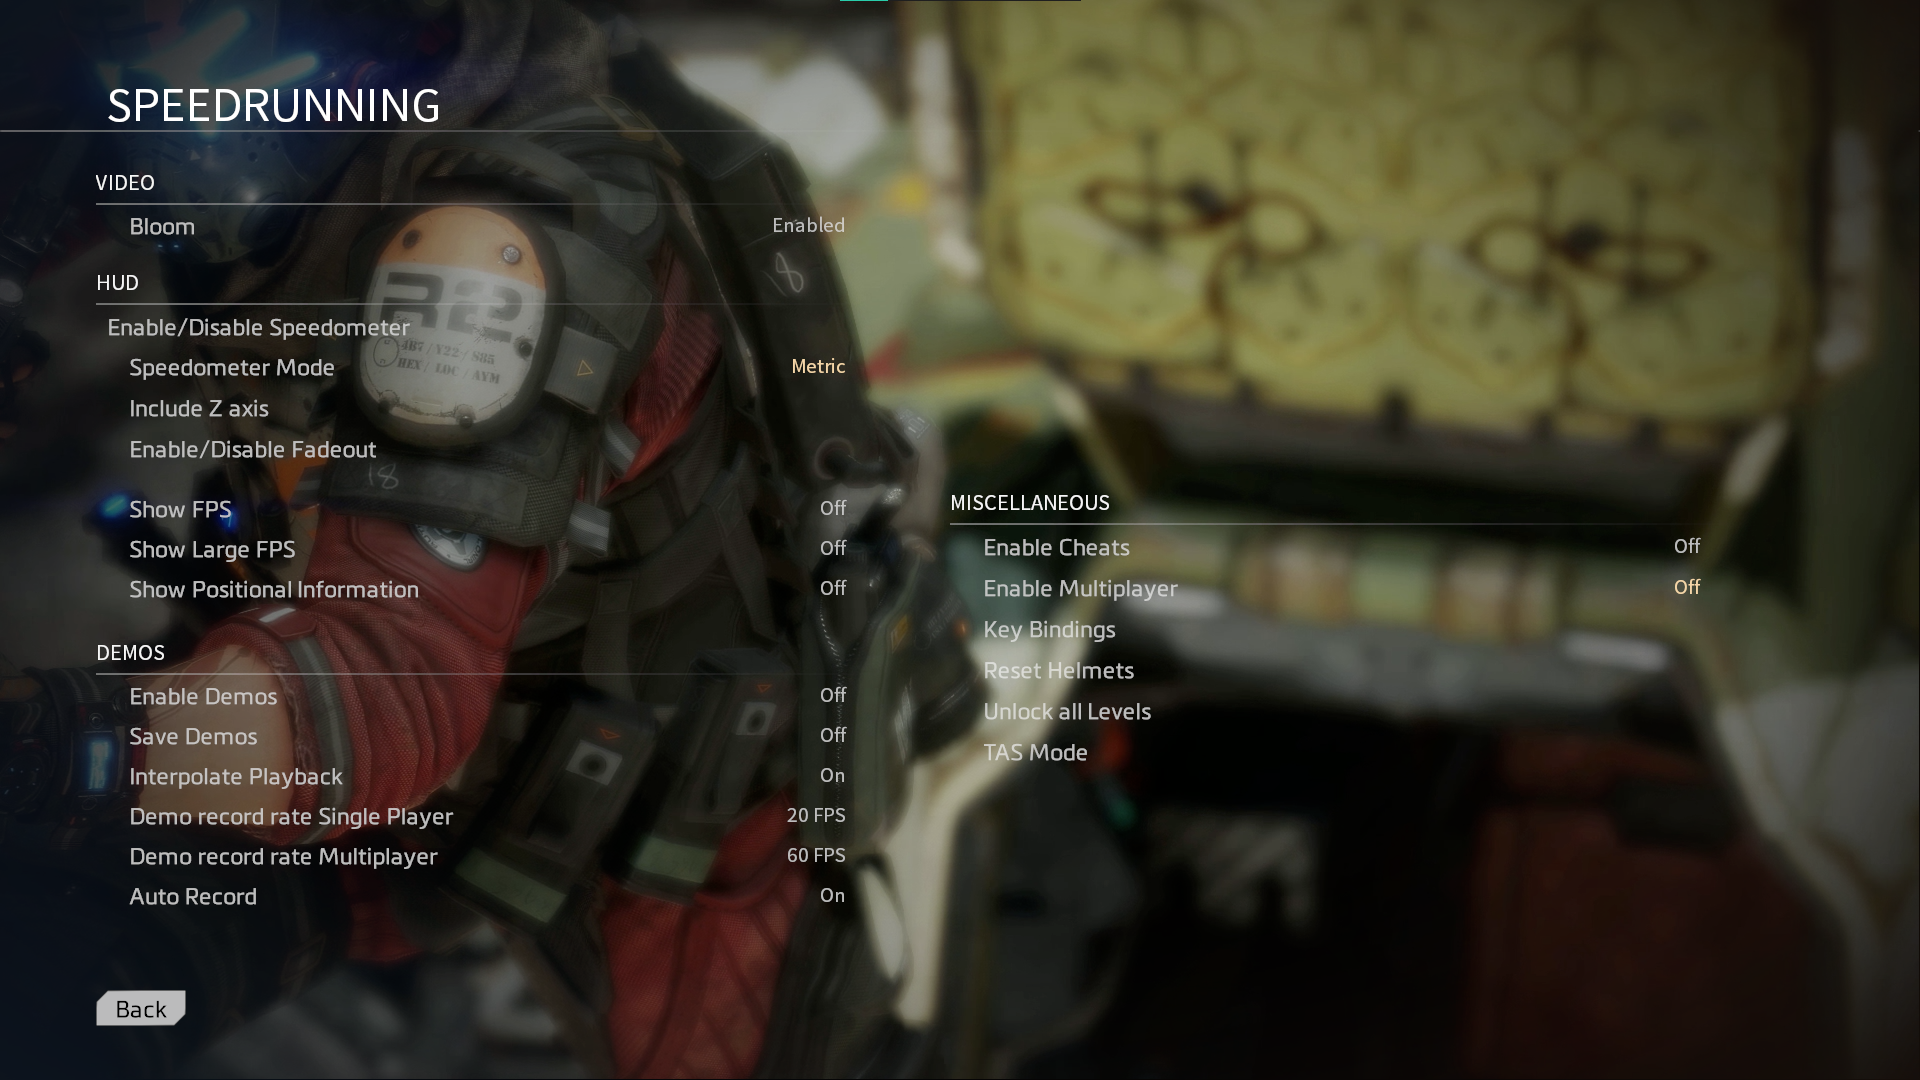
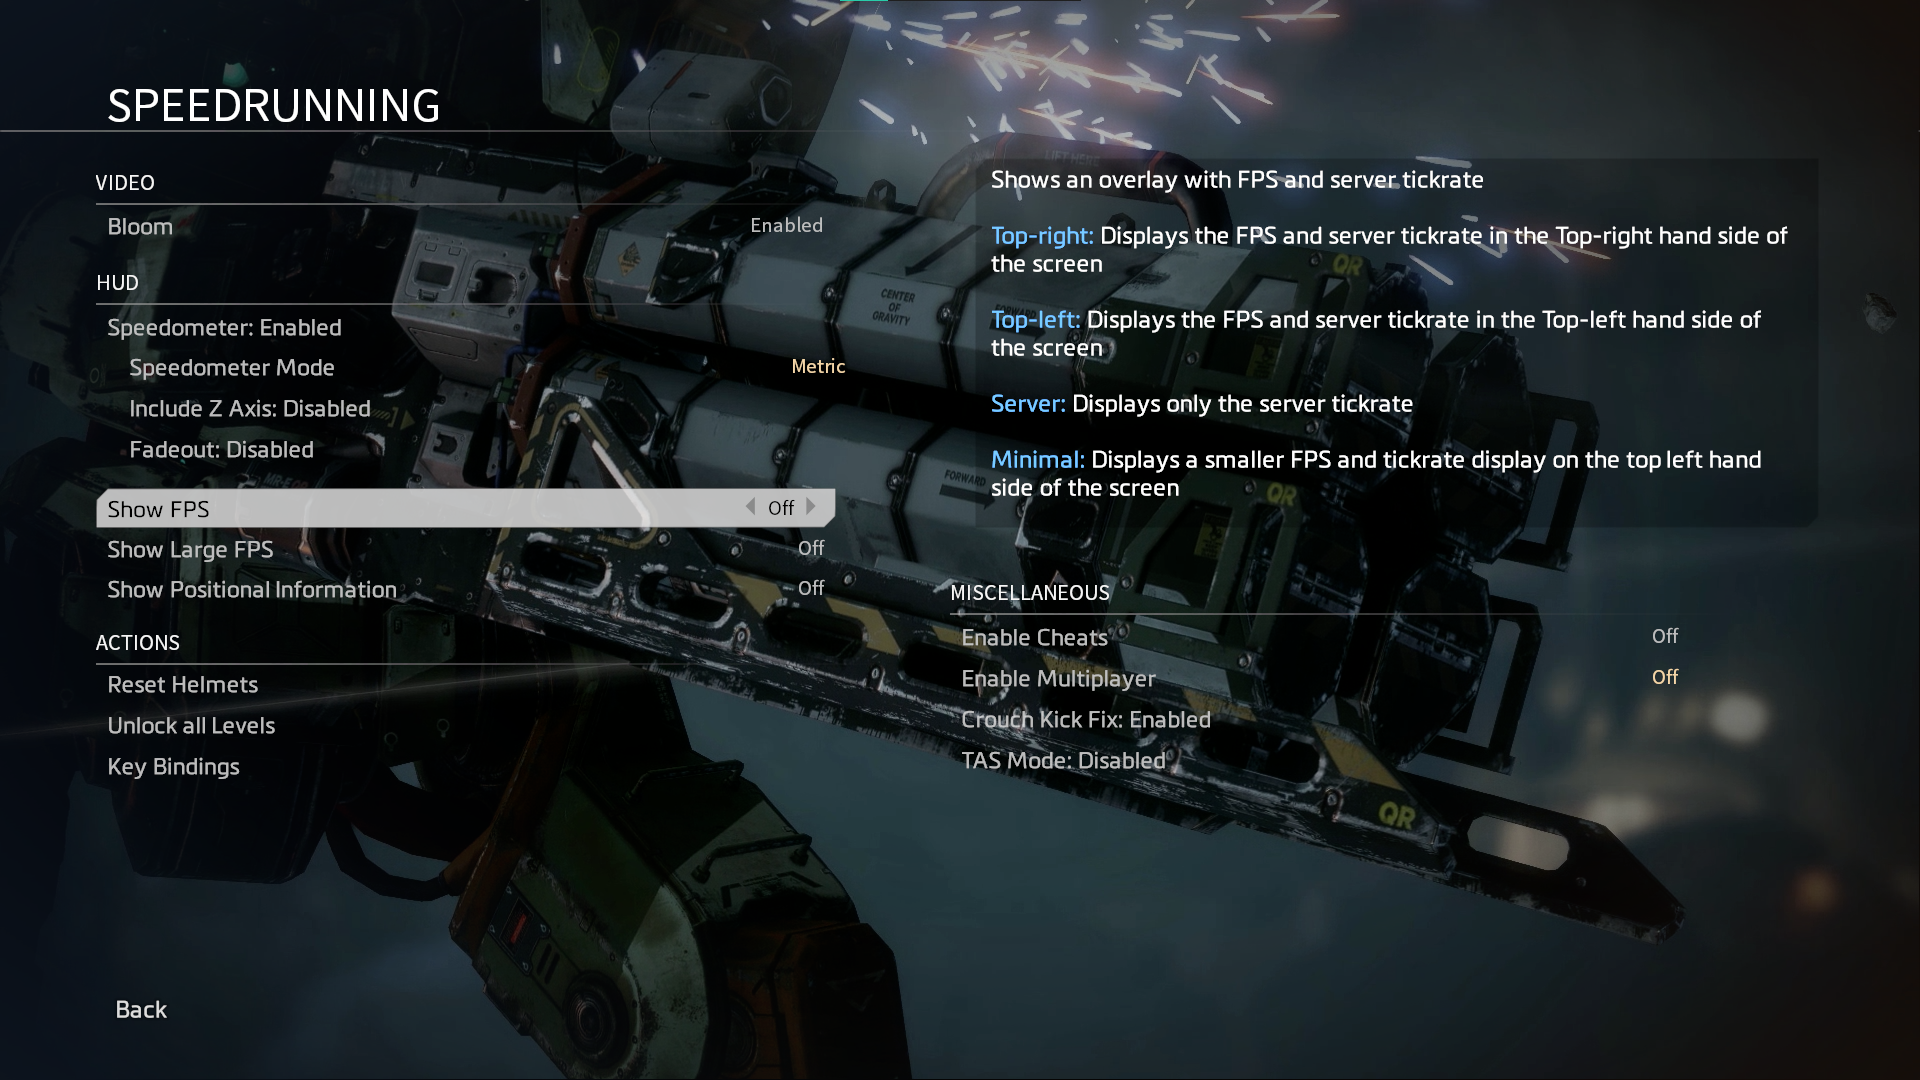
update readme

diff --git a/README.md b/README.md
@@ -6,7 +6,7 @@
 
 This is a forked version of taskinoz's Enhanced Menu Mod geared specifically toward speedrunners and TASers. I cut a few features that were not relevant for runners, and added a bunch more specifically for speedrunning to make runner's lives a bit easier.
 
-[contribute? :\]](https://github.com/zweek/TF2SR-Menu-Mod/blob/main/contribute.md)
+[contribute?](https://github.com/zweek/TF2SR-Menu-Mod/blob/main/contribute.md) :]
 
 # Features
 **Settings**
@@ -19,22 +19,25 @@ This is a forked version of taskinoz's Enhanced Menu Mod geared specifically tow
 * Show Player Position - `cl_showpos`
 * Cheats toggle - `sv_cheats`
 * Toggle to enable/disable multiplayer
+* Crouch Kick Fix <a title="Adds an 8 millisecond buffer to your crouch and jump inputs. If the second input occurs within 8 milliseconds after the first input, then both inputs are sent at the same time. Otherwise the first input is sent as normal after the 8 millisecond buffer.">(?)</a>
 * Button to Reset Helmets
 * Button to unlock all levels
-* Dedicated TAS mode
-* Demos
+* Dedicated TAS mode <a title="Changes console variables like cheats, input debounce and saveload audio fade to allow for easier TASing">(?)</a>
 
 **Bindings**
-* Binds for Individual Level & Full Game Resets
+* Reset binds
+  * Reset Helmets
+  * Reset for Any%
+  * Reset for All Helmets
+  * Reset for Individual Levels
 * Save/Load 3 Quicksaves
 * NCS Saves 1-9
 * NCS Helmet Saves 2 & 5
-* Demo Binds
 * `host_timescale` `5`, `0.2` & `0.05`
 
 **Other features**
 * Remove clutter from the main menu
-* Info Hud that shows `sv_cheats` and other ConVars or `TAS`
+* Info Hud that shows the state of certain console variables, TAS mode and UCKF
 * Separate releases for ENG and CHI text for the chinese version of the game
 * Removed crashes from Dev launch arguments `-dev +developer 1`
 
